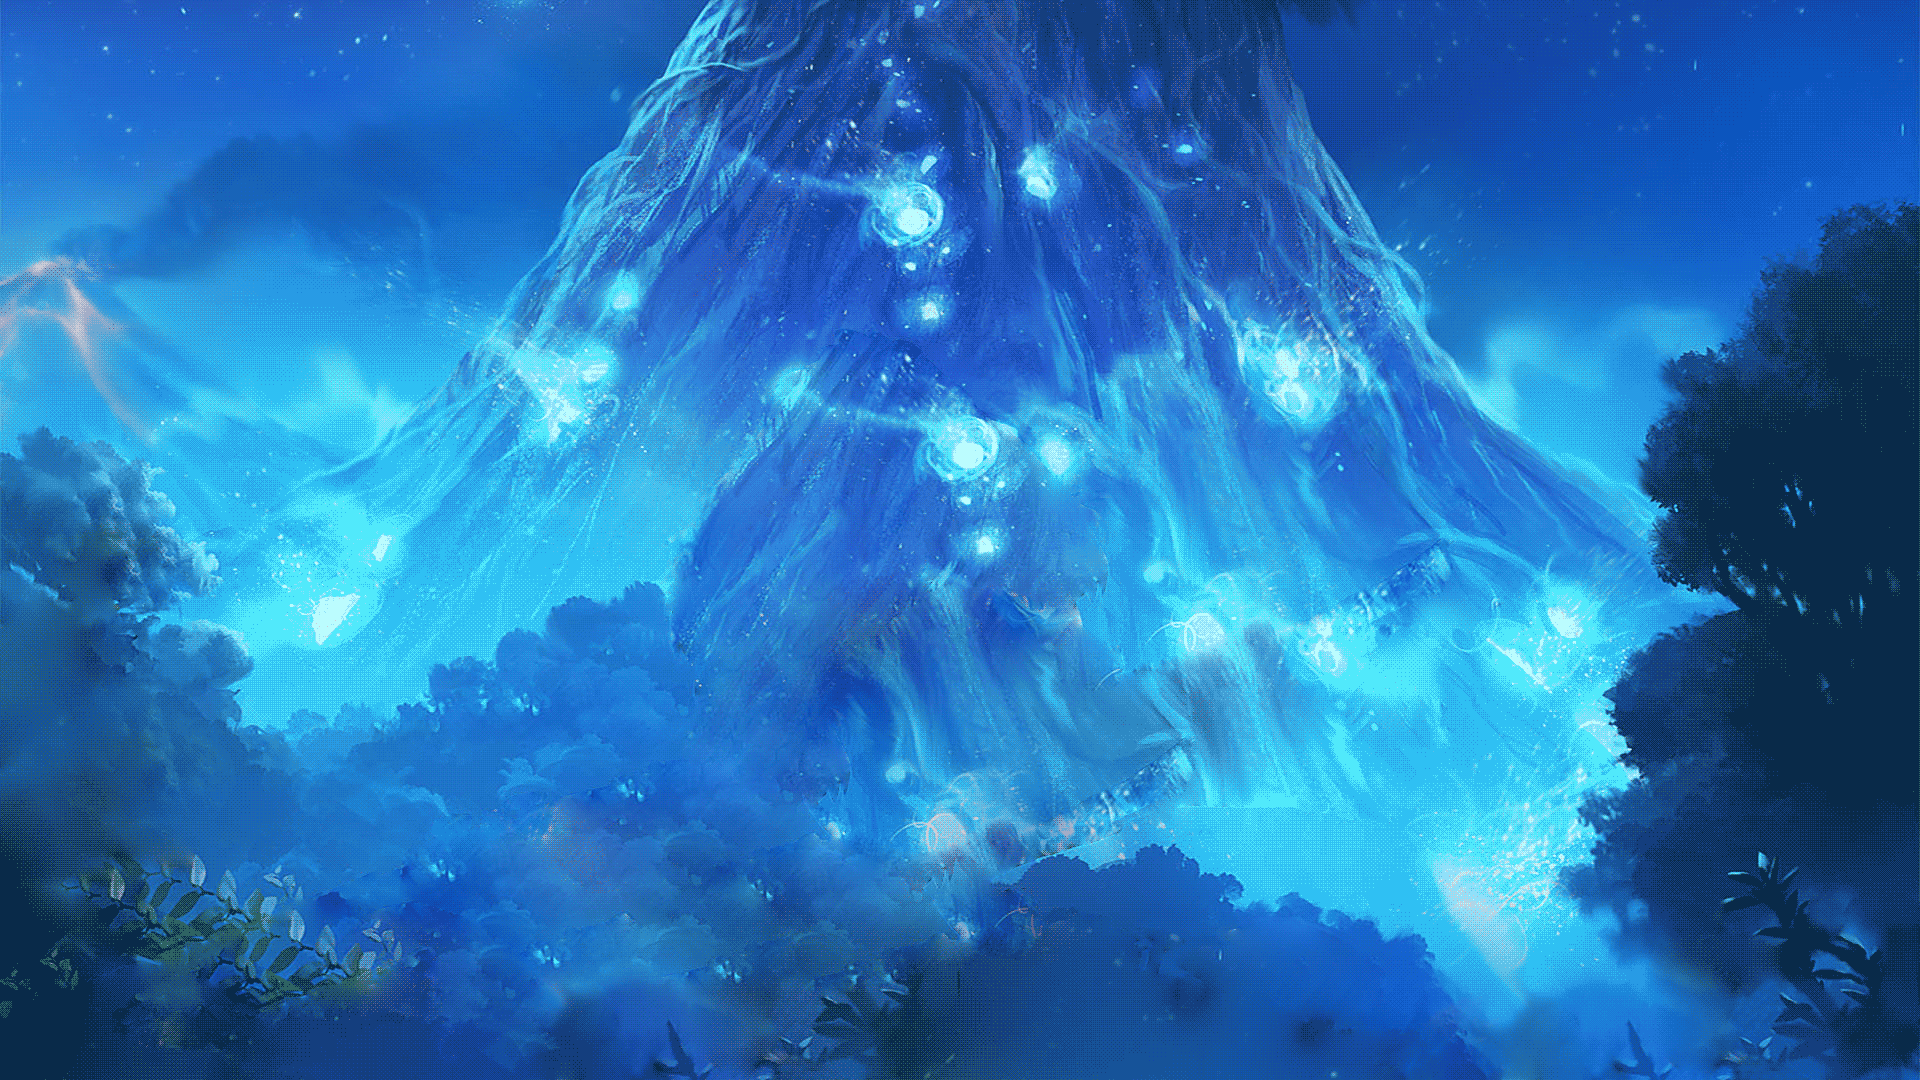
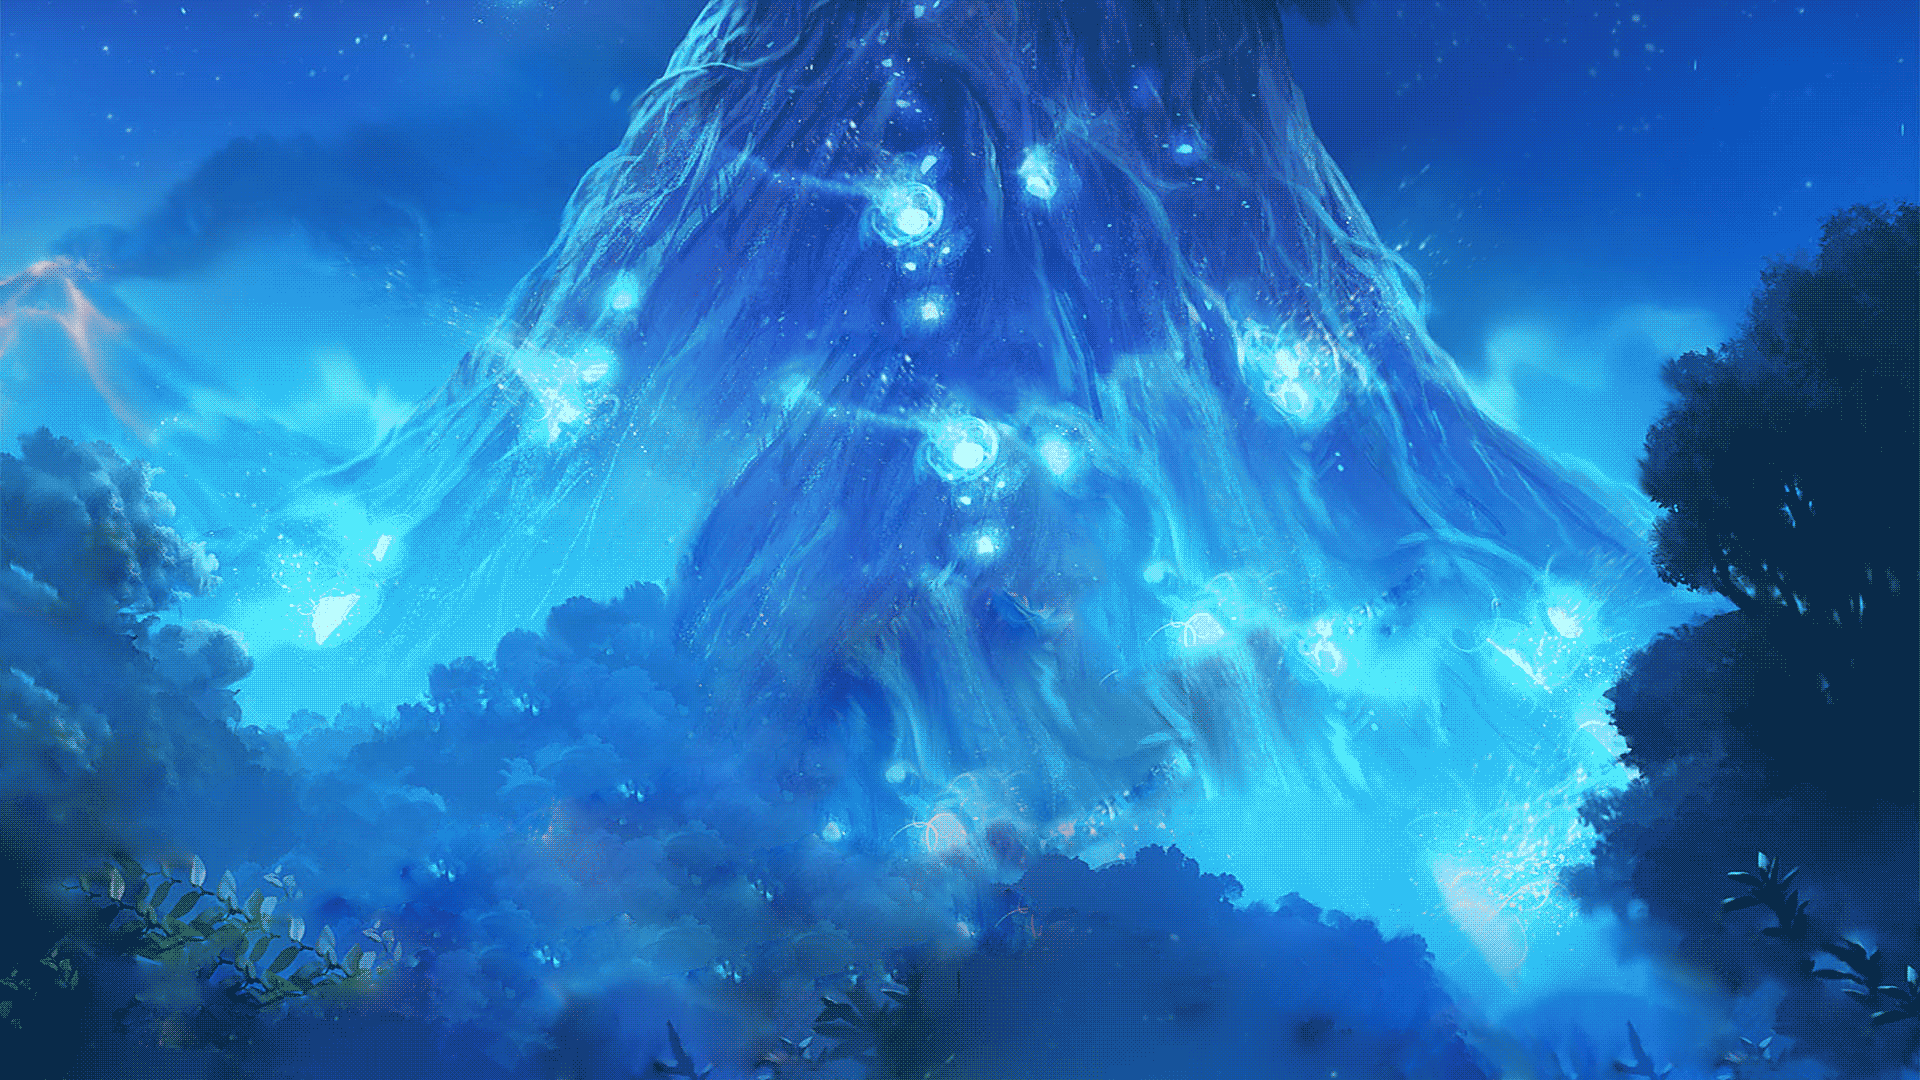
chore: update pictures

diff --git a/script.js b/script.js
@@ -14,7 +14,7 @@ const bg_back = new Image();
 const bg_mid = new Image();
 const bg_fore = new Image();
 bg_back.src = "./assets/bg_back_32.png";
-bg_mid.src = "./assets/bg_mid_32.png";
+bg_mid.src = "./assets/bg_mid_64.png";
 bg_fore.src = "./assets/bg_fore_32.png";
 
 const audio = new Audio("./assets/ori_main_theme.mp3");
